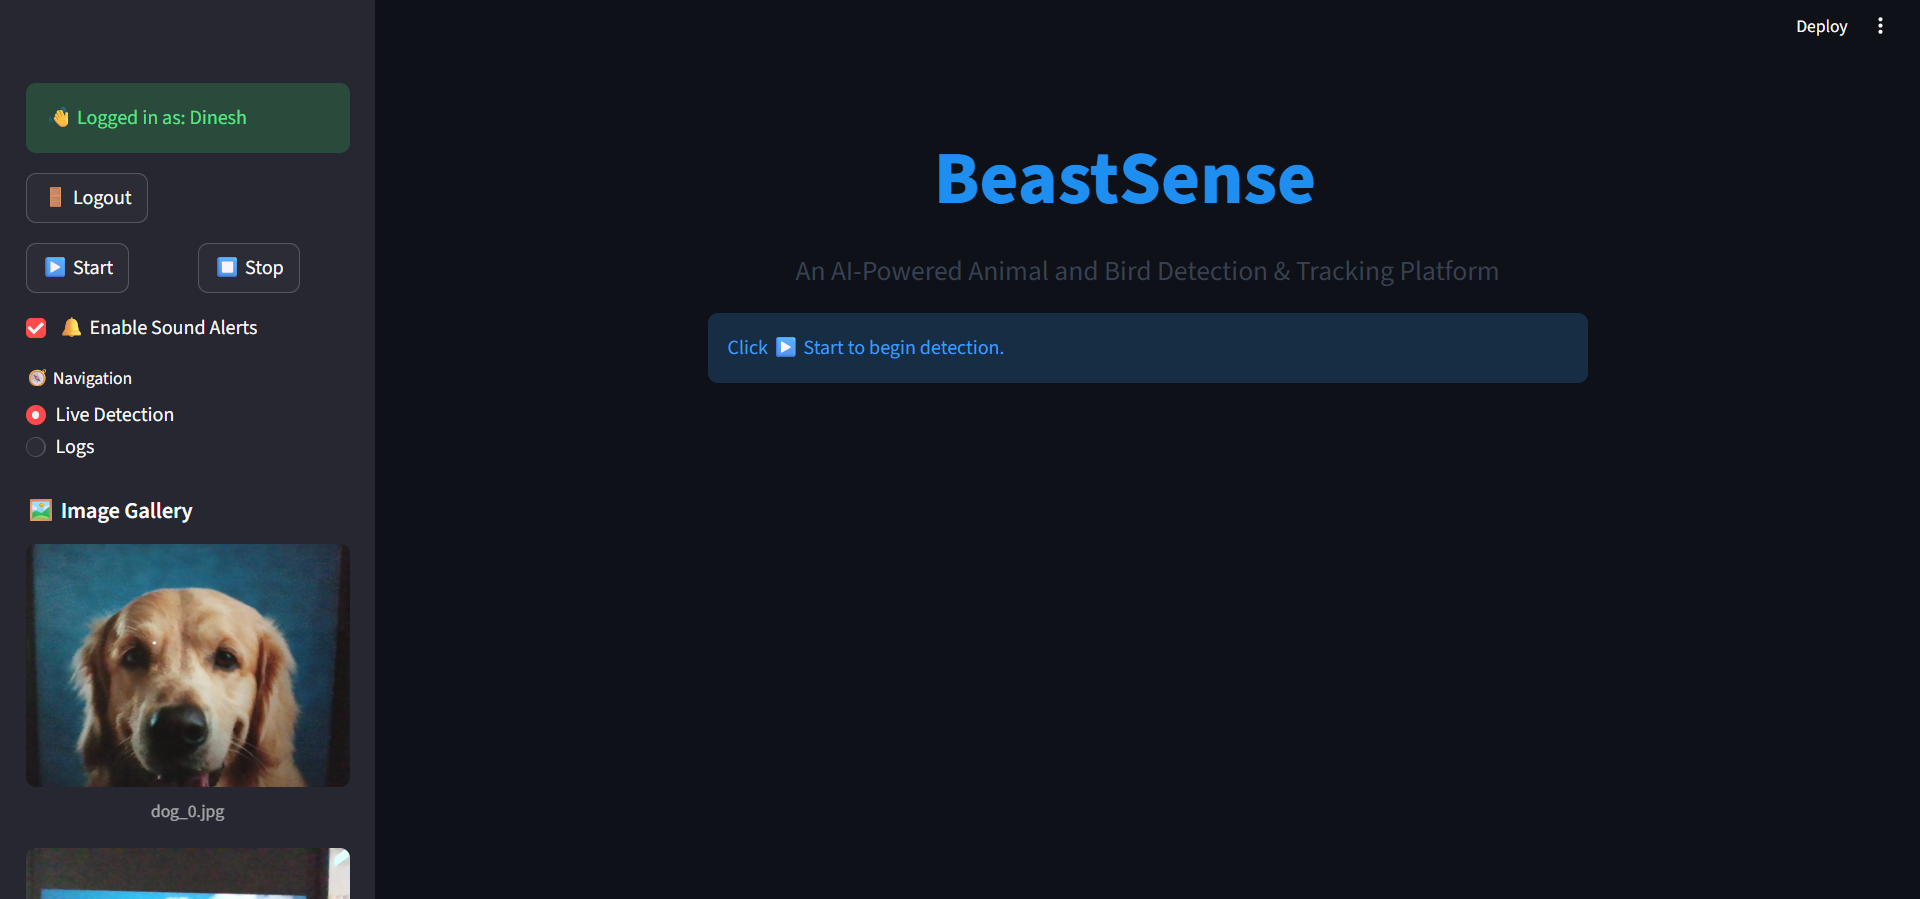
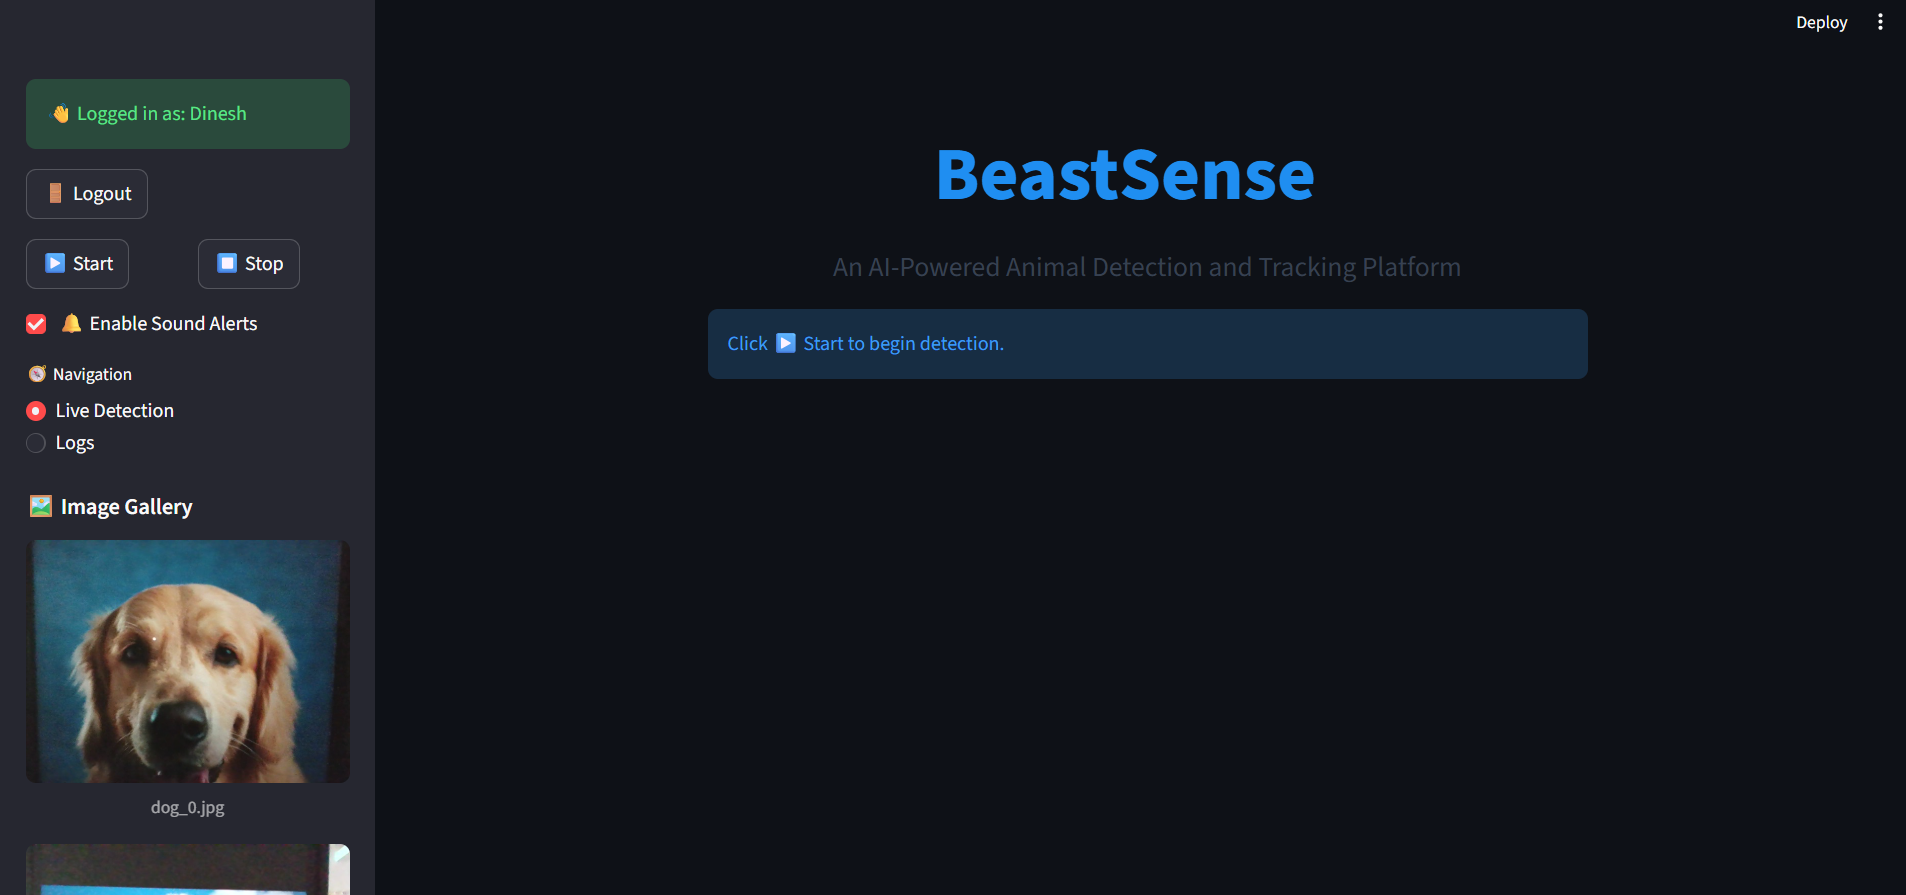
Updated README text and project screenshots

diff --git a/app.py b/app.py
@@ -9,7 +9,6 @@ from datetime import datetime
 from collections import defaultdict
 from ultralytics import YOLO
 
-# ----- Setup -----
 pygame.mixer.init()
 alert_sound = "beep.mp3"
 model = YOLO("yolov8m.pt")
@@ -17,8 +16,7 @@ model = YOLO("yolov8m.pt")
 CONFIDENCE_THRESHOLD = 0.3
 
 ANIMALS_TO_TRACK = [
-"bird","cat","dog","horse","sheep",
-"cow","elephant","bear","zebra","giraffe"
+"bird","cat","dog","horse","sheep","cow","elephant","bear","zebra","giraffe"
 ]
 
 os.makedirs("detections", exist_ok=True)
@@ -30,7 +28,6 @@ if not os.path.exists(LOG_FILE):
         columns=["Time","Animal","Confidence","Image"]
     ).to_csv(LOG_FILE,index=False)
 
-# ----- Auth Utils -----
 def hash_password(password):
     return hashlib.sha256(password.encode()).hexdigest()
 
@@ -66,8 +63,6 @@ def save_user(username,password):
 
     return True
 
-
-# ----- Session State Init -----
 if "authenticated" not in st.session_state:
     st.session_state.authenticated=False
 
@@ -77,8 +72,6 @@ if "username" not in st.session_state:
 if "running" not in st.session_state:
     st.session_state.running=False
 
-
-# ----- Login Page -----
 def login_page():
 
     st.markdown("""
@@ -94,7 +87,7 @@ def login_page():
     font-size:20px;
     color:#6b7280;
     margin-bottom:30px;'>
-    An AI-Powered Animal and Bird Detection & Tracking Platform
+    An AI-Powered Animal Detection and Tracking Platform
     </p>
     """, unsafe_allow_html=True)
 
@@ -143,8 +136,6 @@ def login_page():
 
                 st.warning("Username already exists.")
 
-
-# ----- Main App -----
 def main_app():
 
     st.sidebar.success(
@@ -172,7 +163,7 @@ def main_app():
     font-size:22px;
     color:#374151;
     margin-top:5px;'>
-    An AI-Powered Animal and Bird Detection & Tracking Platform
+    An AI-Powered Animal Detection and Tracking Platform
     </p>
     """, unsafe_allow_html=True)
 
@@ -190,14 +181,13 @@ def main_app():
 
     enable_alerts = st.sidebar.checkbox(
         "🔔 Enable Sound Alerts",
-        value=True
+        value=True 
     )
 
     tab = st.sidebar.radio(
         "🧭 Navigation",
         ["Live Detection","Logs"]
     )
-
 
     if tab=="Live Detection":
 
@@ -395,7 +385,6 @@ def main_app():
             )
 
 
-# ----- Run App -----
 if st.session_state.authenticated:
     main_app()
 else:

diff --git a/README.md b/README.md
@@ -1,7 +1,7 @@
 BeastSense
-An AI-Powered Animal and Bird Detection & Tracking Platform
+An AI-Powered Animal Detection and Tracking Platform
 
-BeastSense is a modern AI-powered wildlife monitoring platform designed to detect and track animals and birds in real time using computer vision and deep learning. The system uses an intelligent object detection model to identify multiple animal species through a webcam feed and provide instant visual alerts and detection logs. Unlike traditional monitoring systems that require manual observation, BeastSense introduces intelligent automation using real time AI detection. The platform continuously analyzes live video frames, detects animals with confidence scores, tracks object movement, captures evidence images and records detailed logs automatically. This helps researchers, wildlife observers and security systems monitor animal activity efficiently.
+BeastSense is a modern AI-powered wildlife monitoring platform designed to detect and track animals in real time using computer vision and deep learning. The system uses an intelligent object detection model to identify multiple animal species through a webcam feed and provide instant visual alerts and detection logs. Unlike traditional monitoring systems that require manual observation, BeastSense introduces intelligent automation using real time AI detection. The platform continuously analyzes live video frames, detects animals with confidence scores, tracks object movement, captures evidence images and records detailed logs automatically. This helps researchers, wildlife observers and security systems monitor animal activity efficiently.
 
 Platform Overview
 
@@ -9,11 +9,11 @@ Users can log into the platform through a secure authentication system. Once log
 
 Project Background
 
-Wild animals entering human habitats have increasingly become a concern, especially near forest areas, farms, and rural homes. Similarly, managing animals in zoos, monitoring pets and tracking endangered species in the wild require constant observation. Traditional surveillance methods are not only labor intensive but also lack real time alert capabilities. With advancements in artificial intelligence and computer vision, it has become possible to automate animal monitoring systems using deep learning models. Technologies such as YOLOv8 allow computers to identify objects in real time video streams. BeastSense uses this capability to detect animals and birds automatically, helping improve safety, wildlife monitoring and research activities.
+Wild animals entering human habitats have increasingly become a concern, especially near forest areas, farms, and rural homes. Similarly, managing animals in zoos, monitoring pets and tracking endangered species in the wild require constant observation. Traditional surveillance methods are not only labor intensive but also lack real time alert capabilities. With advancements in artificial intelligence and computer vision, it has become possible to automate animal monitoring systems using deep learning models. Technologies such as YOLOv8 allow computers to identify objects in real time video streams. BeastSense uses this capability to detect animals automatically, helping improve safety, wildlife monitoring and research activities.
 
 Objectives
 
-* Detect and track multiple animal and bird species using the YOLOv8 deep learning model
+* Detect and track multiple animal species using the YOLOv8 deep learning model
 * Perform real time video analysis with bounding boxes and labels
 * Generate sound alerts using an audio notification system
 * Capture image snapshots whenever animals are detected
@@ -24,7 +24,7 @@ Objectives
 Core Features
 
 * Secure login and registration system for users
-* Real time animal and bird detection using webcam feed
+* Real time animal detection using webcam feed
 * Intelligent object tracking to avoid duplicate counting
 * Automatic image capture when new animals are detected
 * Detection logs stored with time, animal name, confidence score and image
@@ -44,7 +44,7 @@ Applications
 
 AI and Intelligent Detection
 
-BeastSense uses the YOLOv8 deep learning model for real time object detection. Each video frame from the webcam is analyzed to identify animals and birds. The system filters detections using a confidence threshold to ensure reliable predictions. A lightweight tracking logic compares the center positions of detected objects between frames. If the object is already tracked, the system updates its position. If it is new, the system registers it as a new detection, captures an image, logs the event and optionally plays an alert sound.
+BeastSense uses the YOLOv8 deep learning model for real time object detection. Each video frame from the webcam is analyzed to identify animals. The system filters detections using a confidence threshold to ensure reliable predictions. A lightweight tracking logic compares the center positions of detected objects between frames. If the object is already tracked, the system updates its position. If it is new, the system registers it as a new detection, captures an image, logs the event and optionally plays an alert sound.
 
 Technology Stack
 
